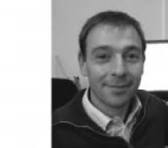
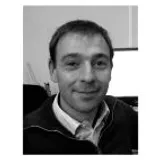
changes

diff --git a/components/InvitedSpeaker.tsx b/components/InvitedSpeaker.tsx
@@ -43,39 +43,39 @@ const staggerContainer = {
 }
 
 export default function InvitedSpeaker() {
-  const speakers: Speaker[] = [
-    { name: "Dr. Ashish Mishra", title: "Associate Professor", affiliation: "IIT (BHU), India", image: "/invited_speaker/ashish.png" },
-    { name: "Dr. C. Kamal", title: "Scientist / Director", affiliation: "RRCAT, India", image: "/invited_speaker/kamal.jpg" },
-    { name: "Dr. Dhiraj Bhatia", title: "Assistant Professor", affiliation: "IIT Gandhinagar, India", image: "/invited_speaker/bhatia.png" },
-    { name: "Dr. K. Pillai Vijayamohanan", title: "Professor", affiliation: "IISER Tirupati, India", image: "/invited_speaker/pillai.png" },
-    { name: "Dr. Surendra Singh", title: "Scientific Officer, SSPD", affiliation: "BARC, Mumbai, India", image: "/invited_speaker/singh.jpg" },
-    { name: "Prof. Abha Misra", title: "Professor", affiliation: "IISc Bangalore, India", image: "/invited_speaker/abha.jpg" },
-    { name: "Prof. Anirudha V. Sumant", title: "Group Leader / Scientist", affiliation: "Argonne National Laboratory, USA", image: "/invited_speaker/sumant.png" },
-    { name: "Prof. Babak Anasori", title: "Reilly Associate Professor", affiliation: "Purdue University, USA", image: "/invited_speaker/anasori.jpg" },
-    { name: "Prof. Bharat Jalan", title: "Professor", affiliation: "University of Minnesota, USA", image: "/invited_speaker/jalan.jpg" },
-    { name: "Prof. B. Ranjit Kumar Nanda", title: "Associate Professor", affiliation: "IIT Madras, India",image: "/invited_speaker/ran.png" },
-    { name: "Prof. Chandra Sekhar Sharma", title: "Head, Chemical Engineering", affiliation: "IIT Hyderabad, India", image: "/invited_speaker/sharma.png" },
-    { name: "Prof. Jin-Hyeok Kim", title: "Professor", affiliation: "Chonnam National University, South Korea", image: "/invited_speaker/kim.jpg" },
-    { name: "Prof. K. D. M. Rao", title: "Assistant Professor", affiliation: "IACS, India", image: "/invited_speaker/rao.png" },
-    { name: "Prof. Mahesh Kumar", title: "Professor", affiliation: "IIT Jodhpur, India", image: "/invited_speaker/mah.png" },
-    { name: "Prof. Mahesh Suryavanshi", title: "ARC DECRA Fellow & Lecturer", affiliation: "UNSW Sydney, Australia",image: "/invited_speaker/mahesh.jpg" },
-    { name: "Prof. Murli Devraj", title: "Associate Professor", affiliation: "IIITDM Kurnool, India", image: "/invited_speaker/dev.png" },
-    { name: "Prof. Pavan Nakula", title: "Professor", affiliation: "IISc Bangalore, India", image: "/invited_speaker/pavam.jpg" },
-    { name: "Prof. Priya Mahadevan", title: "Senior Professor", affiliation: "S. N. Bose Institute, Kolkata, India", image: "/invited_speaker/priya.png" },
-    { name: "Prof. S. B. Ogale", title: "Director, RISE; Emeritus Professor", affiliation: "TCG-CREST / IISER Pune, India", image: "/invited_speaker/ogale.jpg" },
-    { name: "Prof. Samaresh Das", title: "Faculty (CARE)", affiliation: "IIT Delhi, India", image: "/invited_speaker/das.jpg" },
-    { name: "Prof. Sandip Ghosh", title: "Professor", affiliation: "TIFR Mumbai, India", image: "/invited_speaker/gosh.png" },
-    { name: "Prof. Sanjay Mathur", title: "Director, IIMC", affiliation: "University of Cologne, Germany", image: "/invited_speaker/mathur.jpg" },
-    { name: "Prof. Sebastien Royer", title: "Professor", affiliation: "Université du Littoral Côte d'Opale, France", image: "/invited_speaker/royer.png" },
-    { name: "Prof. Somnath C. Roy", title: "Professor in Physics", affiliation: "IIT Madras, India",image: "/invited_speaker/roy.png" },
-    { name: "Prof. Soon Hyung Kang", title: "Professor", affiliation: "Chonnam National University, South Korea", image: "/invited_speaker/kang.jpg" },
-    { name: "Prof. Sumeet Walia", title: "Professor; Director, COMAS", affiliation: "RMIT University, Australia", image: "/invited_speaker/walia.jpg" },
-    { name: "Prof. Suman Kalyan Pal", title: "Professor", affiliation: "IIT Mandi, India", image: "/invited_speaker/pal.png" },
-    { name: "Prof. Tanushree Choudhury", title: "Assistant Research Professor, 2DCC-MIP", affiliation: "Penn State University", image: "/invited_speaker/tanu.png" },
-    { name: "Prof. Vilas Pol", title: "Professor", affiliation: "Purdue University, USA", image: "/invited_speaker/pol.jpg" },
-    { name: "Prof. Yogendra Mishra", title: "Professor", affiliation: "University of Southern Denmark, Denmark", image: "/invited_speaker/yog.png" },
-    { name: "Prof. Yuan-Ron Ma", title: "Vice President & Chair Professor", affiliation: "Fo Guang University / NDHU, Taiwan", image: "/invited_speaker/ma.jpg" },
-  ]
+ const speakers: Speaker[] = [
+  { name: "Dr. Ashish Mishra", title: "Associate Professor", affiliation: "IIT (BHU), India", image: "/invited_speaker/ashish.png" },
+  // { name: "Dr. C. Kamal", title: "Scientist / Director", affiliation: "RRCAT, India", image: "/invited_speaker/kamal.jpg" },
+  { name: "Dr. Dhiraj Bhatia", title: "Assistant Professor", affiliation: "IIT Gandhinagar, India", image: "/invited_speaker/bhatia2.png" },
+  { name: "Dr. K. Pillai Vijayamohanan", title: "Professor", affiliation: "IISER Tirupati, India", image: "/invited_speaker/pillai.png" },
+  { name: "Dr. Surendra Singh", title: "Scientific Officer, SSPD", affiliation: "BARC, Mumbai, India", image: "/invited_speaker/singh.jpg" },
+  { name: "Prof. Abha Misra", title: "Professor", affiliation: "IISc Bangalore, India", image: "/invited_speaker/abha.jpg" },
+  { name: "Prof. Anirudha V. Sumant", title: "Scientist / Group Leader", affiliation: "Argonne National Laboratory, USA", image: "/invited_speaker/sumant.png" },
+  { name: "Prof. Babak Anasori", title: "Reilly Associate Professor", affiliation: "Purdue University, USA", image: "/invited_speaker/anasori.jpg" },
+  { name: "Prof. Bharat Jalan", title: "Professor", affiliation: "University of Minnesota, USA", image: "/invited_speaker/jalan.jpg" },
+  { name: "Prof. B. Ranjit Kumar Nanda", title: "Associate Professor", affiliation: "IIT Madras, India", image: "/invited_speaker/ran.png" },
+  { name: "Prof. Chandra Sekhar Sharma", title: "Head, Chemical Engineering", affiliation: "IIT Hyderabad, India", image: "/invited_speaker/sharma.png" },
+  { name: "Prof. Jin-Hyeok Kim", title: "Professor", affiliation: "Chonnam National University, South Korea", image: "/invited_speaker/kim.jpg" },
+  { name: "Prof. K. D. M. Rao", title: "Assistant Professor", affiliation: "IACS, India", image: "/invited_speaker/rao.png" },
+  { name: "Prof. Mahesh Kumar", title: "Professor", affiliation: "IIT Jodhpur, India", image: "/invited_speaker/mah.png" },
+  { name: "Prof. Mahesh Suryavanshi", title: "ARC DECRA Fellow & Lecturer", affiliation: "UNSW Sydney, Australia", image: "/invited_speaker/mahesh.jpg" },
+  { name: "Prof. Murli Devraj", title: "Associate Professor", affiliation: "IIITDM Kurnool, India", image: "/invited_speaker/dev.png" },
+  { name: "Prof. Pavan Nakula", title: "Professor", affiliation: "IISc Bangalore, India", image: "/invited_speaker/pavam.jpg" },
+  { name: "Prof. Priya Mahadevan", title: "Senior Professor", affiliation: "S. N. Bose Institute, Kolkata, India", image: "/invited_speaker/priya.png" },
+  { name: "Prof. Samaresh Das", title: "Faculty (CARE)", affiliation: "IIT Delhi, India", image: "/invited_speaker/das.jpg" },
+  { name: "Prof. Sandip Ghosh", title: "Professor", affiliation: "TIFR Mumbai, India", image: "/invited_speaker/gosh.png" },
+  { name: "Prof. Sanjay Mathur", title: "Director, IIMC", affiliation: "University of Cologne, Germany", image: "/invited_speaker/mathur.jpg" },
+  { name: "Prof. Sebastien Royer", title: "Professor", affiliation: "Université du Littoral Côte d'Opale, France", image: "/invited_speaker/royer.png" },
+  { name: "Prof. Somnath C. Roy", title: "Professor in Physics", affiliation: "IIT Madras, India", image: "/invited_speaker/roy.png" },
+  { name: "Prof. Soon Hyung Kang", title: "Professor", affiliation: "Chonnam National University, South Korea", image: "/invited_speaker/kang.jpg" },
+  { name: "Prof. S. B. Ogale", title: "Director, RISE; Emeritus Professor", affiliation: "TCG-CREST / IISER Pune, India", image: "/invited_speaker/ogale.jpg" },
+  { name: "Prof. Suman Kalyan Pal", title: "Professor", affiliation: "IIT Mandi, India", image: "/invited_speaker/pal.png" },
+  { name: "Prof. Sumeet Walia", title: "Professor; Director, COMAS", affiliation: "RMIT University, Australia", image: "/invited_speaker/walia2.jpg" },
+  { name: "Prof. Tanushree Choudhury", title: "Assistant Research Professor, 2DCC-MIP", affiliation: "Penn State University", image: "/invited_speaker/tanu.png" },
+  { name: "Prof. Vilas Pol", title: "Professor", affiliation: "Purdue University, USA", image: "/invited_speaker/pol.jpg" },
+  { name: "Prof. Yuan-Ron Ma", title: "Vice President & Chair Professor", affiliation: "Fo Guang University / NDHU, Taiwan", image: "/invited_speaker/ma2.jpg" },
+  { name: "Prof. Yogendra Mishra", title: "Professor", affiliation: "University of Southern Denmark, Denmark", image: "/invited_speaker/yog.png" },
+]
 
 
   return (

diff --git a/components/invited-speakers-carousel.tsx b/components/invited-speakers-carousel.tsx
@@ -14,50 +14,42 @@ interface Speaker {
 export default function InvitedSpeakersCarousel() {
   const [currentSlide, setCurrentSlide] = useState(0)
 
-    const speakers: Speaker[] = [
+const speakers: Speaker[] = [
   { name: "Dr. Ashish Mishra", title: "Associate Professor", affiliation: "IIT (BHU), India", image: "/invited_speaker/ashish.png" },
-  { name: "Dr. C. Kamal", title: "Scientist / Director", affiliation: "RRCAT, India", image: "/invited_speaker/kamal.jpg" },
-  { name: "Dr. Dhiraj Bhatia", title: "Assistant Professor", affiliation: "IIT Gandhinagar, India", image: "/invited_speaker/bhatia.png" },
+  // { name: "Dr. C. Kamal", title: "Scientist / Director", affiliation: "RRCAT, India", image: "/invited_speaker/kamal.jpg" },
+  { name: "Dr. Dhiraj Bhatia", title: "Assistant Professor", affiliation: "IIT Gandhinagar, India", image: "/invited_speaker/bhatia2.png" },
   { name: "Dr. K. Pillai Vijayamohanan", title: "Professor", affiliation: "IISER Tirupati, India", image: "/invited_speaker/pillai.png" },
-  { name: "Dr. R. Balamuralikrishnan", title: "Outstanding Scientist / Director", affiliation: "DMRL Hyderabad, India", image: "/invited_speaker/bala.jpg" },
   { name: "Dr. Surendra Singh", title: "Scientific Officer, SSPD", affiliation: "BARC, Mumbai, India", image: "/invited_speaker/singh.jpg" },
-  { name: "Mr. Unmesh D. Malshe", title: "Director", affiliation: "RRCAT, India", image: "/invited_speaker/malshe.png" },
+
   { name: "Prof. Abha Misra", title: "Professor", affiliation: "IISc Bangalore, India", image: "/invited_speaker/abha.jpg" },
-  { name: "Prof. Amlan J. Pal", title: "Former Director, UGC-DAE CSR", affiliation: "IACS Kolkata, India", image: "/invited_speaker/amlan.png" },
-  { name: "Prof. Anirudha V. Sumant", title: "Group Leader / Scientist", affiliation: "Argonne National Laboratory, USA", image: "/invited_speaker/sumant.png" },
+  { name: "Prof. Anirudha V. Sumant", title: "Scientist / Group Leader", affiliation: "Argonne National Laboratory, USA", image: "/invited_speaker/sumant.png" },
   { name: "Prof. Babak Anasori", title: "Reilly Associate Professor", affiliation: "Purdue University, USA", image: "/invited_speaker/anasori.jpg" },
   { name: "Prof. Bharat Jalan", title: "Professor", affiliation: "University of Minnesota, USA", image: "/invited_speaker/jalan.jpg" },
-  { name: "Prof. Bikramjit Basu", title: "Director", affiliation: "CSIR-CGCRI, India", image: "/invited_speaker/basu.jpg" },
-  { name: "Prof. B. Ranjit Kumar Nanda", title: "Associate Professor", affiliation: "IIT Madras, India",image: "/invited_speaker/ran.png" },
+  { name: "Prof. B. Ranjit Kumar Nanda", title: "Associate Professor", affiliation: "IIT Madras, India", image: "/invited_speaker/ran.png" },
   { name: "Prof. Chandra Sekhar Sharma", title: "Head, Chemical Engineering", affiliation: "IIT Hyderabad, India", image: "/invited_speaker/sharma.png" },
   { name: "Prof. Jin-Hyeok Kim", title: "Professor", affiliation: "Chonnam National University, South Korea", image: "/invited_speaker/kim.jpg" },
-  { name: "Prof. Kaustubh R. S. Priolkar", title: "Director", affiliation: "UGC-DAE CSR / Goa University, India", image: "/invited_speaker/priolkar.jpg" },
-  { name: "Prof. Kalobaran Maiti", title: "Director", affiliation: "IACS Kolkata, India", image: "/invited_speaker/maiti.jpg" },
-  { name: "Prof. Kourosh Kalantar-Zadeh", title: "Professor & Academic Lead", affiliation: "University of Sydney, Australia", image: "/invited_speaker/zadeh.png" },
   { name: "Prof. K. D. M. Rao", title: "Assistant Professor", affiliation: "IACS, India", image: "/invited_speaker/rao.png" },
   { name: "Prof. Mahesh Kumar", title: "Professor", affiliation: "IIT Jodhpur, India", image: "/invited_speaker/mah.png" },
-  { name: "Prof. Mahesh Suryavanshi", title: "ARC DECRA Fellow & Lecturer", affiliation: "UNSW Sydney, Australia",image: "/invited_speaker/mahesh.jpg" },
-  { name: "Prof. Motohiko Ezawa", title: "Professor", affiliation: "University of Tokyo, Japan", image: "/invited_speaker/ezawa.jpg" },
+  { name: "Prof. Mahesh Suryavanshi", title: "ARC DECRA Fellow & Lecturer", affiliation: "UNSW Sydney, Australia", image: "/invited_speaker/mahesh.jpg" },
   { name: "Prof. Murli Devraj", title: "Associate Professor", affiliation: "IIITDM Kurnool, India", image: "/invited_speaker/dev.png" },
   { name: "Prof. Pavan Nakula", title: "Professor", affiliation: "IISc Bangalore, India", image: "/invited_speaker/pavam.jpg" },
   { name: "Prof. Priya Mahadevan", title: "Senior Professor", affiliation: "S. N. Bose Institute, Kolkata, India", image: "/invited_speaker/priya.png" },
-  { name: "Prof. Robert Weatherup", title: "Associate Professor", affiliation: "University of Oxford, UK", image: "/invited_speaker/robert.jpg" },
   { name: "Prof. Samaresh Das", title: "Faculty (CARE)", affiliation: "IIT Delhi, India", image: "/invited_speaker/das.jpg" },
   { name: "Prof. Sandip Ghosh", title: "Professor", affiliation: "TIFR Mumbai, India", image: "/invited_speaker/gosh.png" },
   { name: "Prof. Sanjay Mathur", title: "Director, IIMC", affiliation: "University of Cologne, Germany", image: "/invited_speaker/mathur.jpg" },
   { name: "Prof. Sebastien Royer", title: "Professor", affiliation: "Université du Littoral Côte d'Opale, France", image: "/invited_speaker/royer.png" },
-  { name: "Prof. Somnath C. Roy", title: "Professor in Physics", affiliation: "IIT Madras, India",image: "/invited_speaker/roy.png" },
+  { name: "Prof. Somnath C. Roy", title: "Professor in Physics", affiliation: "IIT Madras, India", image: "/invited_speaker/roy.png" },
   { name: "Prof. Soon Hyung Kang", title: "Professor", affiliation: "Chonnam National University, South Korea", image: "/invited_speaker/kang.jpg" },
   { name: "Prof. S. B. Ogale", title: "Director, RISE; Emeritus Professor", affiliation: "TCG-CREST / IISER Pune, India", image: "/invited_speaker/ogale.jpg" },
   { name: "Prof. Suman Kalyan Pal", title: "Professor", affiliation: "IIT Mandi, India", image: "/invited_speaker/pal.png" },
-  { name: "Prof. Sumeet Walia", title: "Professor; Director, COMAS", affiliation: "RMIT University, Australia", image: "/invited_speaker/walia.jpg" },
+  { name: "Prof. Sumeet Walia", title: "Professor; Director, COMAS", affiliation: "RMIT University, Australia", image: "/invited_speaker/walia2.jpg" },
   { name: "Prof. Tanushree Choudhury", title: "Assistant Research Professor, 2DCC-MIP", affiliation: "Penn State University", image: "/invited_speaker/tanu.png" },
-  { name: "Prof. T. Venky Venkatesan", title: "Director, CQRT", affiliation: "University of Oklahoma, USA", image: "/invited_speaker/venky.png" },
-  { name: "Prof. Umesh V. Waghmare", title: "President", affiliation: "JNCASR, Bangalore, India", image: "/invited_speaker/umesh.png" },
   { name: "Prof. Vilas Pol", title: "Professor", affiliation: "Purdue University, USA", image: "/invited_speaker/pol.jpg" },
-  { name: "Prof. Yuan-Ron Ma", title: "Vice President & Chair Professor", affiliation: "Fo Guang University / NDHU, Taiwan", image: "/invited_speaker/ma.jpg" },
+  { name: "Prof. Yuan-Ron Ma", title: "Vice President & Chair Professor", affiliation: "Fo Guang University / NDHU, Taiwan", image: "/invited_speaker/ma2.jpg" },
   { name: "Prof. Yogendra Mishra", title: "Professor", affiliation: "University of Southern Denmark, Denmark", image: "/invited_speaker/yog.png" },
 ]
+
+
 
   const itemsPerSlide = {
     mobile: 1,

diff --git a/components/international-advisory-carousel.tsx b/components/international-advisory-carousel.tsx
@@ -10,87 +10,137 @@ interface CommitteeMember {
 }
 
 export default function InternationalAdvisoryCarousel() {
-  const committeeMembers: CommitteeMember[] = [
-    {
-      name: "Prof. Anirudha V. Sumant",
-      affiliation: "Argonne National Laboratory, USA",
-      initials: "AS",
-      image: "/invited_speaker/sumant.jpg",
-    },
-    {
-      name: "Prof. Babak Anasori",
-      affiliation: "Purdue University, USA",
-      initials: "BA",
-      image: "/invited_speaker/anasori.jpg",
-    },
-    {
-      name: "Prof. Bharat Jalan",
-      affiliation: "University of Minnesota, USA",
-      initials: "BJ",
-      image: "/invited_speaker/jalan.jpg",
-    },
-    {
-      name: "Prof. Jin-Hyeok Kim",
-      affiliation: "Chonnam National University, South Korea",
-      initials: "JK",
-      image: "/invited_speaker/kim.jpg",
-    },
-    {
-      name: "Prof. Kourosh Kalantar-Zadeh",
-      affiliation: "University of Sydney, Australia",
-      initials: "KK",
-      image: "/invited_speaker/zadeh.png",
-    },
-    {
-      name: "Prof. Motohiko Ezawa",
-      affiliation: "University of Tokyo, Japan",
-      initials: "ME",
-      image: "/invited_speaker/ezawa.jpg",
-    },
-    {
-      name: "Prof. Robert Weatherup",
-      affiliation: "University of Oxford, UK",
-      initials: "RW",
-      image: "/invited_speaker/robert.jpg",
-    },
-    {
-      name: "Prof. Sanjay Mathur",
-      affiliation: "Director, IIMC, University of Cologne, Germany",
-      initials: "SM",
-      image: "/invited_speaker/mathur.jpg",
-    },
-    {
-      name: "Prof. Sebastien Royer",
-      affiliation: "Univ. du Littoral Côte d'Opale, France",
-      initials: "SR",
-      image: "/invited_speaker/royer.png",
-    },
-    {
-      name: "Prof. T. Venky Venkatesan",
-      affiliation: "University of Oklahoma, USA",
-      initials: "TV",
-      image: "/invited_speaker/venky.png",
-    },
-    {
-      name: "Prof. Yogendra Mishra",
-      affiliation: "University of Southern Denmark, Denmark",
-      initials: "YM",
-      image: "/invited_speaker/yog.png",
-    },
-    {
-      name: "Prof. Yuan-Ron Ma",
-      affiliation: "Vice-President, Fo Guang University, Taiwan",
-      initials: "YM",
-      image: "/invited_speaker/ma.jpg",
-    },
-  ]
+const committeeMembers: CommitteeMember[] = [
+  {
+    name: "Prof. Amlan J. Pal",
+    affiliation: "Ex. Director, UGC-DAE-CSR, India; Professor & JC Bose National Fellow, IACS, Kolkata",
+    initials: "AP",
+    image: "/invited_speaker/pal.png",
+  },
+  {
+    name: "Prof. Anirudha V. Sumant",
+    affiliation: "Group Leader, Center for Nanoscale Materials, Argonne National Laboratory, USA",
+    initials: "AS",
+    image: "/invited_speaker/sumant.jpg",
+  },
+  {
+    name: "Prof. Babak Anasori",
+    affiliation: "Reilly Associate Professor, Purdue University, USA",
+    initials: "BA",
+    image: "/invited_speaker/anasori.jpg",
+  },
+  {
+    name: "Prof. Bharat Jalan",
+    affiliation: "University of Minnesota, USA",
+    initials: "BJ",
+    image: "/invited_speaker/jalan.jpg",
+  },
+  {
+    name: "Prof. Bikramjit Basu",
+    affiliation: "Director, CSIR-CGCRI, India",
+    initials: "BB",
+    image: "/invited_speaker/basu.jpg",
+  },
+  {
+    name: "Dr. R. Balamuralikrishnan",
+    affiliation: "Outstanding Scientist / Director, Defence Metallurgical Research Laboratory (DMRL), Hyderabad",
+    initials: "RB",
+    image: "/invited_speaker/bala.jpg",
+  },
+  {
+    name: "Prof. Kaustubh R. S. Priolkar",
+    affiliation: "Director, UGC-DAE CSR; Senior Professor of Physics, Goa University, India",
+    initials: "KP",
+    image: "/invited_speaker/priolkar.jpg",
+  },
+  {
+    name: "Prof. Kourosh Kalantar-Zadeh",
+    affiliation: "Professor & Academic Lead, University of Sydney, Australia",
+    initials: "KK",
+    image: "/invited_speaker/zadeh.png",
+  },
+  {
+    name: "Prof. Kalobaran Maiti",
+    affiliation: "Director, IACS Kolkata, India",
+    initials: "KM",
+    image: "/invited_speaker/maiti.jpg",
+  },
+  {
+    name: "Prof. Jin-Hyeok Kim",
+    affiliation: "Professor, Chonnam National University, South Korea",
+    initials: "JK",
+    image: "/invited_speaker/kim.jpg",
+  },
+  {
+    name: "Prof. Motohiko Ezawa",
+    affiliation: "Professor, University of Tokyo, Japan",
+    initials: "ME",
+    image: "/invited_speaker/ezawa.jpg",
+  },
+  {
+    name: "Prof. Robert Weatherup",
+    affiliation: "Associate Professor, Materials Science, University of Oxford, UK",
+    initials: "RW",
+    image: "/invited_speaker/robert.jpg",
+  },
+  {
+    name: "Prof. S. B. Ogale",
+    affiliation: "Director, RISE; Emeritus Professor, IISER Pune, India",
+    initials: "SO",
+    image: "/invited_speaker/ogale.jpg",
+  },
+  {
+    name: "Prof. Sanjay Mathur",
+    affiliation: "Director, IIMC; University of Cologne, Germany",
+    initials: "SM",
+    image: "/invited_speaker/mathur.jpg",
+  },
+  {
+    name: "Prof. Sebastien Royer",
+    affiliation: "Université du Littoral Côte d'Opale, France",
+    initials: "SR",
+    image: "/invited_speaker/royer.png",
+  },
+  {
+    name: "Prof. T. Venky Venkatesan",
+    affiliation: "Director, CQRT; University of Oklahoma, USA",
+    initials: "TV",
+    image: "/invited_speaker/venky.png",
+  },
+  {
+    name: "Prof. Umesh V Waghmare",
+    affiliation: "President, JNCASR, Bangalore, India",
+    initials: "UW",
+    image: "/invited_speaker/umesh.png",
+  },
+  {
+    name: "Mr. Unmesh D. Malshe",
+    affiliation: "Director, RRCAT, India",
+    initials: "UM",
+    image: "/invited_speaker/malshe.png",
+  },
+  {
+    name: "Prof. Yogendra Mishra",
+    affiliation: "Professor, University of Southern Denmark; FRSC (Fellow Royal Society of Chemistry)",
+    initials: "YM",
+    image: "/invited_speaker/yog.png",
+  },
+  {
+    name: "Prof. Yuan-Ron Ma",
+    affiliation: "Vice President & Chair Professor, Fo Guang University; NDHU, Taiwan",
+    initials: "YM",
+    image: "/invited_speaker/ma2.jpg",
+  },
+];
+
+
 
   return (
     <div className="py-12">
       <div className="grid grid-cols-1 sm:grid-cols-2 lg:grid-cols-3 xl:grid-cols-4 gap-6">
         {committeeMembers.map((member, idx) => (
           <div key={idx} className="group">
-            <div className="bg-[color:var(--primary-foreground)] rounded-xl shadow-md hover:shadow-xl transition-all duration-300 overflow-hidden border border-[color:var(--nav)]/10 hover:border-[color:var(--primary)]">
+            <div className="bg-[color:var(--primary-foreground)] rounded-xl shadow-md hover:shadow-xl transition-all duration-300 overflow-hidden border border-[color:var(--nav)]/10 hover:border-[color:var(--primary)] h-full flex flex-col">
 
               {/* Avatar Section */}
               <div className="h-32 bg-gradient-to-br from-[color:var(--primary)] to-[color:var(--nav)] flex items-center justify-center p-4">

diff --git a/app/layout.tsx b/app/layout.tsx
@@ -14,7 +14,6 @@ export const metadata: Metadata = {
   authors: [{ name: "IIT Indore" }],
   creator: "IIT Indore",
   publisher: "IIT Indore",
-    generator: 'v0.app'
 }
 
 export const viewport = {
@@ -45,6 +44,8 @@ export default function RootLayout({
         <meta property="og:title" content="2D MatTechGlobal 2026 Conference" />
         <meta property="og:description" content="International conference on 2D Materials at IIT Indore" />
         <meta property="og:type" content="website" />
+        {/* Favicon */}
+        <link rel="icon" href="/favicon.ico" type="image/x-icon" />
       </head>
       <body className={`font-sans antialiased`}>
         <Navigation />

diff --git a/components/sponsorship.tsx b/components/sponsorship.tsx
@@ -100,7 +100,8 @@ export default function Sponsorship() {
 
         {/* Other Sponsorship Options */}
         <div className="mt-16">
-          <h3 className="text-2xl font-bold text-[color:var(--nav)] mb-8">Other Sponsorship Options</h3>
+          <h3 className="text-2xl font-bold text-[color:var(--nav)] mb-8">Other
+            <span className='text-[color:var(--primary)]'> Sponsorship</span>  Options</h3>
           <div className="grid md:grid-cols-2 lg:grid-cols-5 gap-4">
             {otherSponsorship.map((sponsor, idx) => (
               <Card key={idx} className="border-[color:var(--nav)]/10 flex flex-col h-full">
